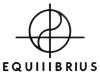
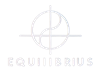
Modifica estilo do navbar e o icone.

diff --git a/src/components/Header.css b/src/components/Header.css
@@ -1,26 +1,44 @@
+body, html {
+  height: 100%;
+  margin: 0;
+}
+
 .navbar  {
+  position: fixed; 
+  padding: .5em;
+  top: 0; 
+  left: 0; 
+  width: 100%; 
   display: flex;
   justify-content: space-between;
-  padding: 1em;
-  width: 100%;
+  align-items: center;
+  background-color: #222;
 }
 
 .list {
   display: flex;
   list-style: none;
   align-items: center;
+  margin: 0;
+  padding: 0;
 }
 
 .item {
-  margin-right: 1em;
+  margin-right: 3em;
 }
 
 .item a {
-  color: #000000;
+  color: #FFF;
   text-decoration: none;
-  margin-left: auto;
+  font-family: Arial, sans-serif;
+  size: 16px;
 }
 
 .item a:hover{
   color: #bf2912;
+}
+
+.icon {
+  margin-right: auto;
+  margin-left: 2em;
 }

diff --git a/src/components/Header.jsx b/src/components/Header.jsx
@@ -6,10 +6,10 @@ function Header() {
     return (
       <>
         <nav className="navbar">
-          <ul className="list">
-            <li className="item">
+          <div className="icon">
               <Link to="/"><img src={icon} alt="Logo" /></Link>
-            </li>
+            </div>
+          <ul className="list">
             <li className="item">
               <Link to="/">Home</Link>
             </li>
